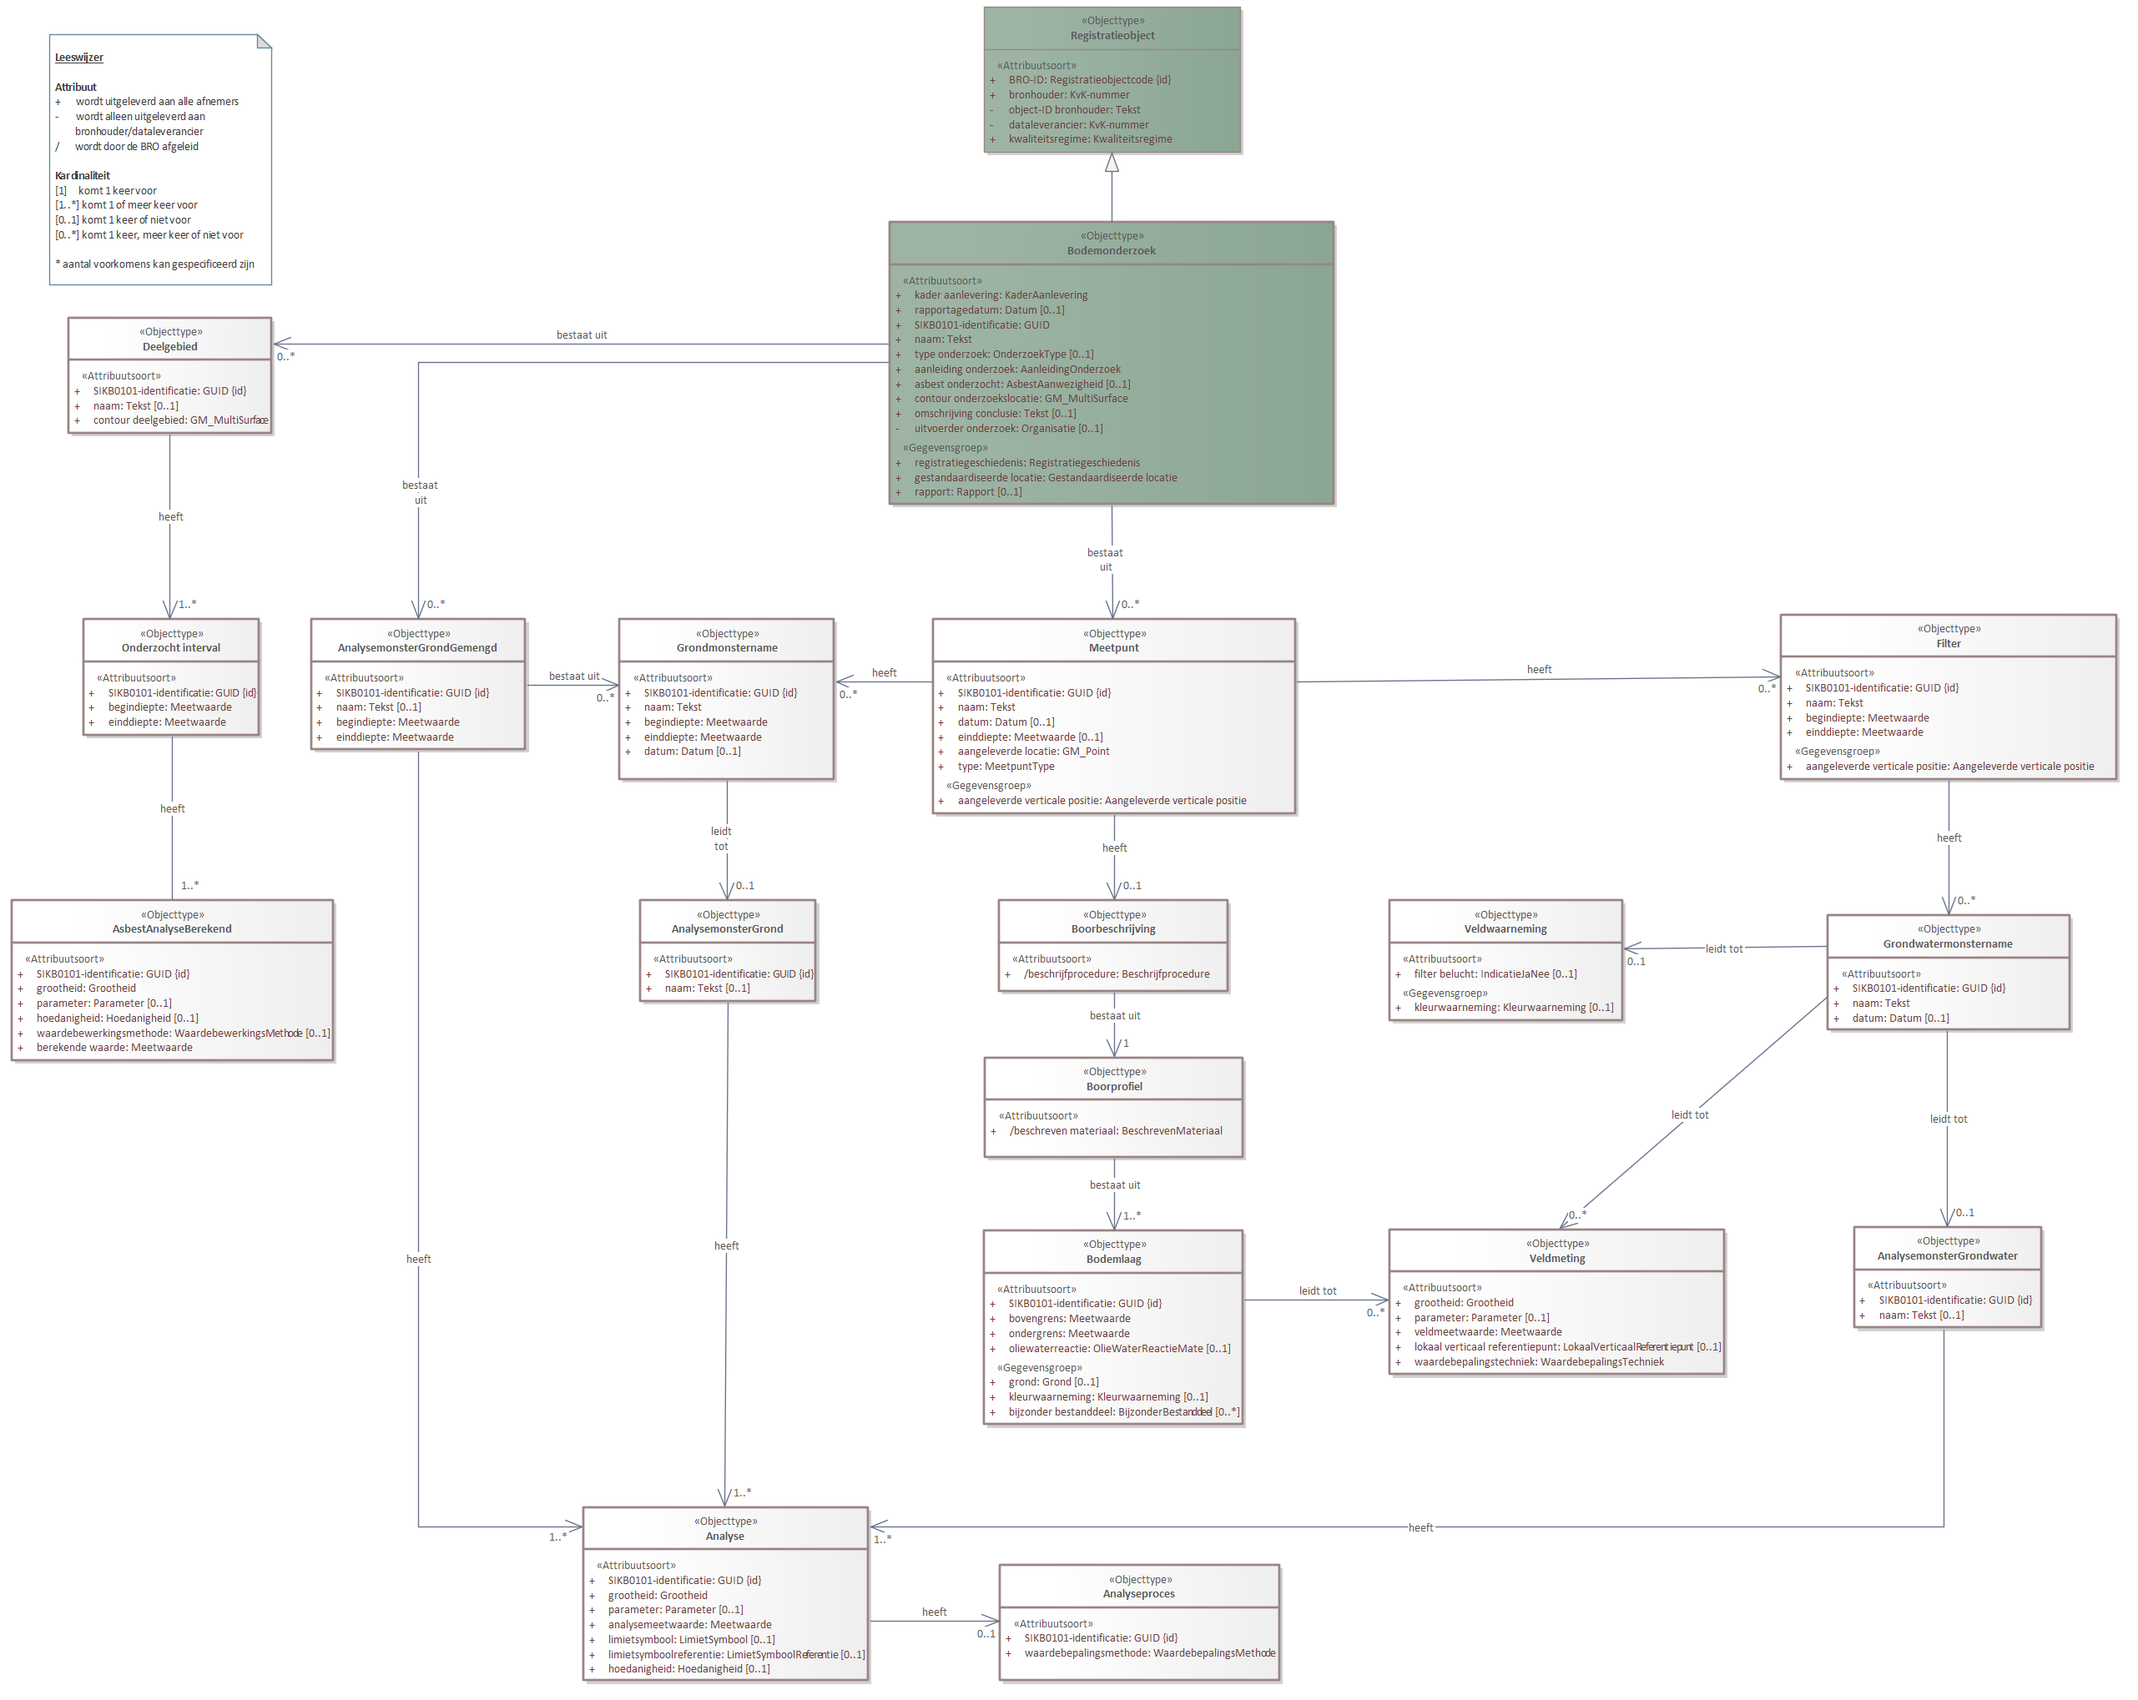
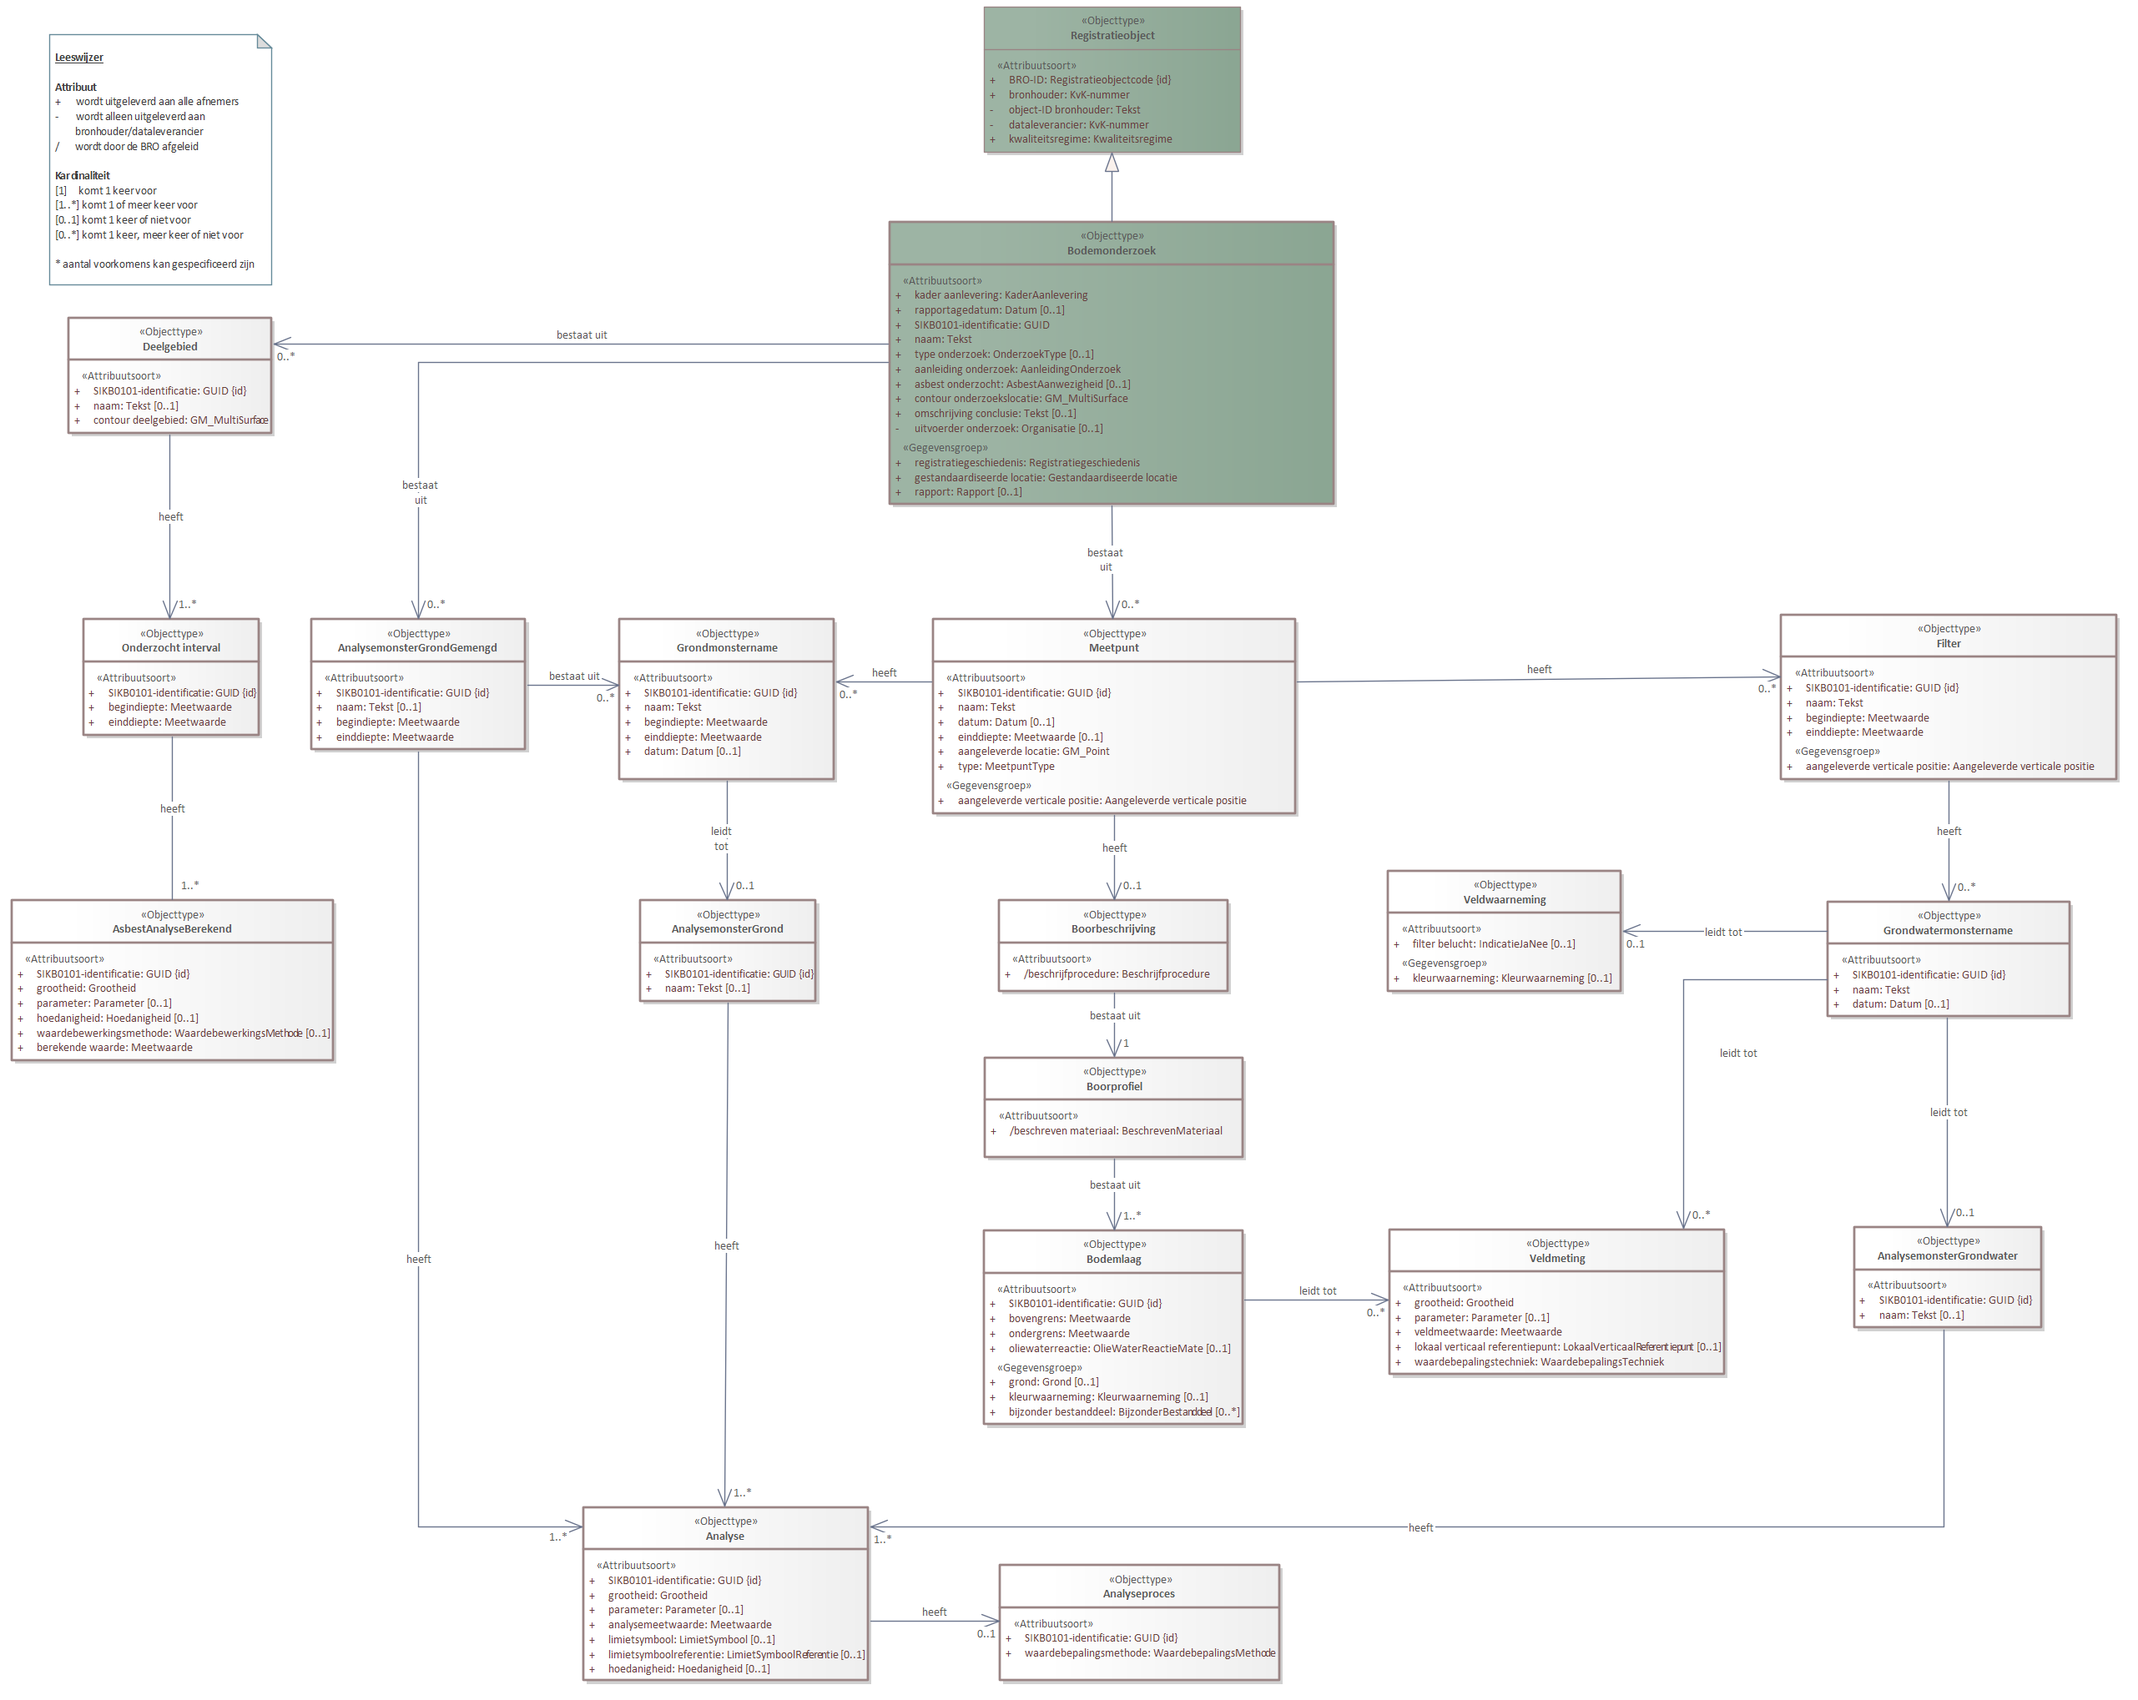
Conceptualmodel-MilieuhygienischbodemonderzoekSAD-0.99-1-20231205-20240109-145252

Changed region(s): [[0.6245, 0.4946, 0.8119, 0.6183], [0.8431, 0.5255, 0.968, 0.6183]]

diff --git a/data/SAD-cat.msword.html b/data/SAD-cat.msword.html
@@ -15,7 +15,7 @@
    <body>
       <p>Conceptual model/Milieuhygienisch bodemonderzoek SAD/20231205</p>
       <p>Imvertor: Nightly-build.13</p>
-      <p>Model release: Conceptualmodel-MilieuhygienischbodemonderzoekSAD-0.99-1-20231205-20240109-140355</p>
+      <p>Model release: Conceptualmodel-MilieuhygienischbodemonderzoekSAD-0.99-1-20231205-20240109-145252</p>
       <hr>
       <section>
          <h1>Artikel 1 Definitie van registratieobject, entiteiten en attributen</h1>
@@ -66,7 +66,7 @@
          <section>
             <h2>Het domeinmodel</h2>
             <section>
-               <div class="imageinfo overview"><img src="Images/EAID_FABA90F8_223C_433d_BAE3_74F87B3DC220.png" usemap="#imagemap-EAID_FABA90F8_223C_433d_BAE3_74F87B3DC220" alt="Diagram &#xA;                        &#xA;                     "><map name="imagemap-EAID_FABA90F8_223C_433d_BAE3_74F87B3DC220"><area shape="rect" alt="AsbestAnalyseBerekend" coords="14,1079,400,1272" href="#global_class_Model_AsbestAnalyseBerekend"><area shape="rect" alt="Onderzocht interval" coords="100,742,311,882" href="#global_class_Model_Onderzochtinterval"><area shape="rect" alt="Deelgebied" coords="82,381,326,520" href="#global_class_Model_Deelgebied"><area shape="rect" alt="Analyseproces" coords="1198,1876,1534,2015" href="#global_class_Model_Analyseproces"><area shape="rect" alt="Analyse" coords="699,1807,1041,2015" href="#global_class_Model_Analyse"><area shape="rect" alt="AnalysemonsterGrondwater" coords="2222,1471,2447,1592" href="#global_class_Model_AnalysemonsterGrondwater"><area shape="rect" alt="AnalysemonsterGrond" coords="767,1079,978,1201" href="#global_class_Model_AnalysemonsterGrond"><area shape="rect" alt="Boorprofiel" coords="1180,1268,1490,1388" href="#global_class_Model_Boorprofiel"><area shape="rect" alt="Boorbeschrijving" coords="1197,1079,1472,1189" href="#global_class_Model_Boorbeschrijving"><area shape="rect" alt="Veldmeting" coords="1665,1474,2067,1648" href="#global_class_Model_Veldmeting"><area shape="rect" alt="Veldwaarneming" coords="1665,1079,1945,1224" href="#global_class_Model_Veldwaarneming"><area shape="rect" alt="AnalysemonsterGrondGemengd" coords="373,742,630,899" href="#global_class_Model_AnalysemonsterGrondGemengd"><area shape="rect" alt="Grondwatermonstername" coords="2190,1097,2481,1235" href="#global_class_Model_Grondwatermonstername"><area shape="rect" alt="Grondmonstername" coords="742,742,1000,935" href="#global_class_Model_Grondmonstername"><area shape="rect" alt="Filter" coords="2134,737,2537,935" href="#global_class_Model_Filter"><area shape="rect" alt="Bodemlaag" coords="1179,1475,1490,1708" href="#global_class_Model_Bodemlaag"><area shape="rect" alt="Meetpunt" coords="1118,742,1553,976" href="#global_class_Model_Meetpunt"><area shape="rect" alt="Registratieobject" coords="1179,8,1487,183" href="#global_class_Model_Registratieobject"><area shape="rect" alt="Bodemonderzoek" coords="1066,266,1599,605" href="#global_class_Model_Bodemonderzoek"></map><p><b>Domeinmodel milieuhygienisch bodemonderzoek</b></p>
+               <div class="imageinfo overview"><img src="Images/EAID_FABA90F8_223C_433d_BAE3_74F87B3DC220.png" usemap="#imagemap-EAID_FABA90F8_223C_433d_BAE3_74F87B3DC220" alt="Diagram &#xA;                        &#xA;                     "><map name="imagemap-EAID_FABA90F8_223C_433d_BAE3_74F87B3DC220"><area shape="rect" alt="AsbestAnalyseBerekend" coords="14,1079,400,1272" href="#global_class_Model_AsbestAnalyseBerekend"><area shape="rect" alt="Onderzocht interval" coords="100,742,311,882" href="#global_class_Model_Onderzochtinterval"><area shape="rect" alt="Deelgebied" coords="82,381,326,520" href="#global_class_Model_Deelgebied"><area shape="rect" alt="Analyseproces" coords="1198,1876,1534,2015" href="#global_class_Model_Analyseproces"><area shape="rect" alt="Analyse" coords="699,1807,1041,2015" href="#global_class_Model_Analyse"><area shape="rect" alt="AnalysemonsterGrondwater" coords="2222,1471,2447,1592" href="#global_class_Model_AnalysemonsterGrondwater"><area shape="rect" alt="AnalysemonsterGrond" coords="767,1079,978,1201" href="#global_class_Model_AnalysemonsterGrond"><area shape="rect" alt="Boorprofiel" coords="1180,1268,1490,1388" href="#global_class_Model_Boorprofiel"><area shape="rect" alt="Boorbeschrijving" coords="1197,1079,1472,1189" href="#global_class_Model_Boorbeschrijving"><area shape="rect" alt="Veldmeting" coords="1665,1474,2067,1648" href="#global_class_Model_Veldmeting"><area shape="rect" alt="Veldwaarneming" coords="1663,1044,1943,1189" href="#global_class_Model_Veldwaarneming"><area shape="rect" alt="AnalysemonsterGrondGemengd" coords="373,742,630,899" href="#global_class_Model_AnalysemonsterGrondGemengd"><area shape="rect" alt="Grondwatermonstername" coords="2190,1081,2481,1219" href="#global_class_Model_Grondwatermonstername"><area shape="rect" alt="Grondmonstername" coords="742,742,1000,935" href="#global_class_Model_Grondmonstername"><area shape="rect" alt="Filter" coords="2134,737,2537,935" href="#global_class_Model_Filter"><area shape="rect" alt="Bodemlaag" coords="1179,1475,1490,1708" href="#global_class_Model_Bodemlaag"><area shape="rect" alt="Meetpunt" coords="1118,742,1553,976" href="#global_class_Model_Meetpunt"><area shape="rect" alt="Registratieobject" coords="1179,8,1487,183" href="#global_class_Model_Registratieobject"><area shape="rect" alt="Bodemonderzoek" coords="1066,266,1599,605" href="#global_class_Model_Bodemonderzoek"></map><p><b>Domeinmodel milieuhygienisch bodemonderzoek</b></p>
                </div>
             </section>
          </section>

diff --git a/data/SAD-cat.respec.html b/data/SAD-cat.respec.html
@@ -44,7 +44,7 @@
       </section>
    <section>
       <h2>Het domeinmodel   </h2>
-      <div class="imageinfo overview"><img src="data/Images/EAID_FABA90F8_223C_433d_BAE3_74F87B3DC220.png" usemap="#imagemap-EAID_FABA90F8_223C_433d_BAE3_74F87B3DC220" alt="Diagram &#xA;                        &#xA;                     "><map name="imagemap-EAID_FABA90F8_223C_433d_BAE3_74F87B3DC220"><area shape="rect" alt="AsbestAnalyseBerekend" coords="14,1079,400,1272" href="#global_class_Model_AsbestAnalyseBerekend"><area shape="rect" alt="Onderzocht interval" coords="100,742,311,882" href="#global_class_Model_Onderzochtinterval"><area shape="rect" alt="Deelgebied" coords="82,381,326,520" href="#global_class_Model_Deelgebied"><area shape="rect" alt="Analyseproces" coords="1198,1876,1534,2015" href="#global_class_Model_Analyseproces"><area shape="rect" alt="Analyse" coords="699,1807,1041,2015" href="#global_class_Model_Analyse"><area shape="rect" alt="AnalysemonsterGrondwater" coords="2222,1471,2447,1592" href="#global_class_Model_AnalysemonsterGrondwater"><area shape="rect" alt="AnalysemonsterGrond" coords="767,1079,978,1201" href="#global_class_Model_AnalysemonsterGrond"><area shape="rect" alt="Boorprofiel" coords="1180,1268,1490,1388" href="#global_class_Model_Boorprofiel"><area shape="rect" alt="Boorbeschrijving" coords="1197,1079,1472,1189" href="#global_class_Model_Boorbeschrijving"><area shape="rect" alt="Veldmeting" coords="1665,1474,2067,1648" href="#global_class_Model_Veldmeting"><area shape="rect" alt="Veldwaarneming" coords="1665,1079,1945,1224" href="#global_class_Model_Veldwaarneming"><area shape="rect" alt="AnalysemonsterGrondGemengd" coords="373,742,630,899" href="#global_class_Model_AnalysemonsterGrondGemengd"><area shape="rect" alt="Grondwatermonstername" coords="2190,1097,2481,1235" href="#global_class_Model_Grondwatermonstername"><area shape="rect" alt="Grondmonstername" coords="742,742,1000,935" href="#global_class_Model_Grondmonstername"><area shape="rect" alt="Filter" coords="2134,737,2537,935" href="#global_class_Model_Filter"><area shape="rect" alt="Bodemlaag" coords="1179,1475,1490,1708" href="#global_class_Model_Bodemlaag"><area shape="rect" alt="Meetpunt" coords="1118,742,1553,976" href="#global_class_Model_Meetpunt"><area shape="rect" alt="Registratieobject" coords="1179,8,1487,183" href="#global_class_Model_Registratieobject"><area shape="rect" alt="Bodemonderzoek" coords="1066,266,1599,605" href="#global_class_Model_Bodemonderzoek"></map><p><b>Domeinmodel milieuhygienisch bodemonderzoek</b></p>
+      <div class="imageinfo overview"><img src="data/Images/EAID_FABA90F8_223C_433d_BAE3_74F87B3DC220.png" usemap="#imagemap-EAID_FABA90F8_223C_433d_BAE3_74F87B3DC220" alt="Diagram &#xA;                        &#xA;                     "><map name="imagemap-EAID_FABA90F8_223C_433d_BAE3_74F87B3DC220"><area shape="rect" alt="AsbestAnalyseBerekend" coords="14,1079,400,1272" href="#global_class_Model_AsbestAnalyseBerekend"><area shape="rect" alt="Onderzocht interval" coords="100,742,311,882" href="#global_class_Model_Onderzochtinterval"><area shape="rect" alt="Deelgebied" coords="82,381,326,520" href="#global_class_Model_Deelgebied"><area shape="rect" alt="Analyseproces" coords="1198,1876,1534,2015" href="#global_class_Model_Analyseproces"><area shape="rect" alt="Analyse" coords="699,1807,1041,2015" href="#global_class_Model_Analyse"><area shape="rect" alt="AnalysemonsterGrondwater" coords="2222,1471,2447,1592" href="#global_class_Model_AnalysemonsterGrondwater"><area shape="rect" alt="AnalysemonsterGrond" coords="767,1079,978,1201" href="#global_class_Model_AnalysemonsterGrond"><area shape="rect" alt="Boorprofiel" coords="1180,1268,1490,1388" href="#global_class_Model_Boorprofiel"><area shape="rect" alt="Boorbeschrijving" coords="1197,1079,1472,1189" href="#global_class_Model_Boorbeschrijving"><area shape="rect" alt="Veldmeting" coords="1665,1474,2067,1648" href="#global_class_Model_Veldmeting"><area shape="rect" alt="Veldwaarneming" coords="1663,1044,1943,1189" href="#global_class_Model_Veldwaarneming"><area shape="rect" alt="AnalysemonsterGrondGemengd" coords="373,742,630,899" href="#global_class_Model_AnalysemonsterGrondGemengd"><area shape="rect" alt="Grondwatermonstername" coords="2190,1081,2481,1219" href="#global_class_Model_Grondwatermonstername"><area shape="rect" alt="Grondmonstername" coords="742,742,1000,935" href="#global_class_Model_Grondmonstername"><area shape="rect" alt="Filter" coords="2134,737,2537,935" href="#global_class_Model_Filter"><area shape="rect" alt="Bodemlaag" coords="1179,1475,1490,1708" href="#global_class_Model_Bodemlaag"><area shape="rect" alt="Meetpunt" coords="1118,742,1553,976" href="#global_class_Model_Meetpunt"><area shape="rect" alt="Registratieobject" coords="1179,8,1487,183" href="#global_class_Model_Registratieobject"><area shape="rect" alt="Bodemonderzoek" coords="1066,266,1599,605" href="#global_class_Model_Bodemonderzoek"></map><p><b>Domeinmodel milieuhygienisch bodemonderzoek</b></p>
       </div>
    </section>
    <section>
